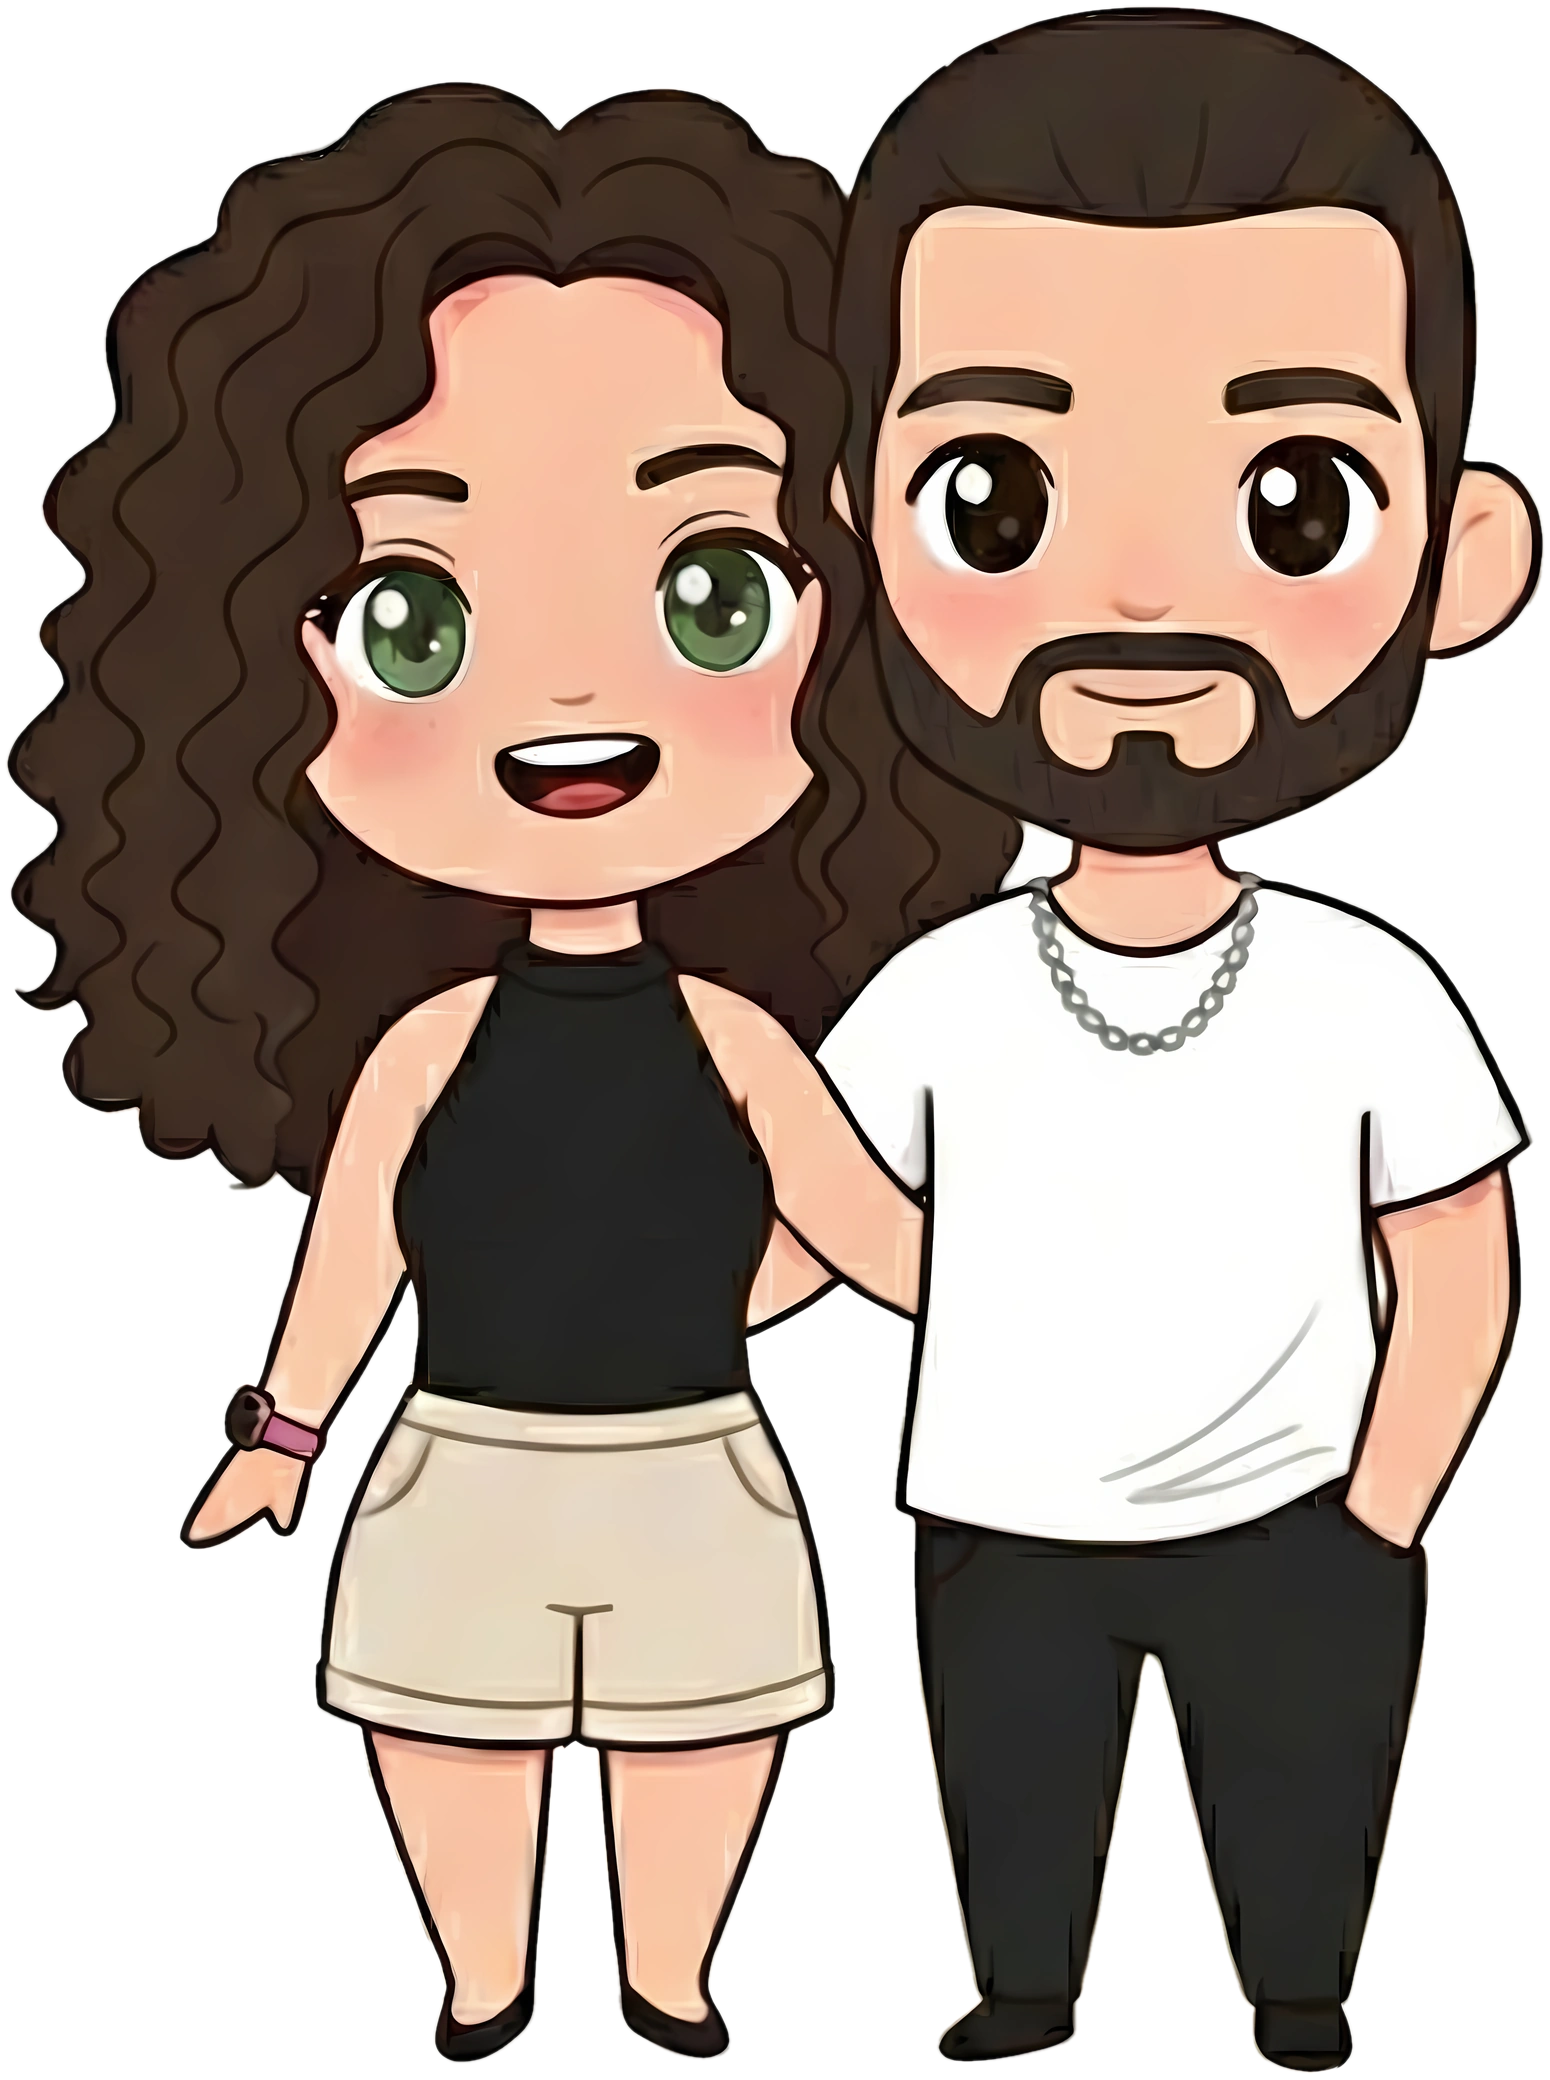
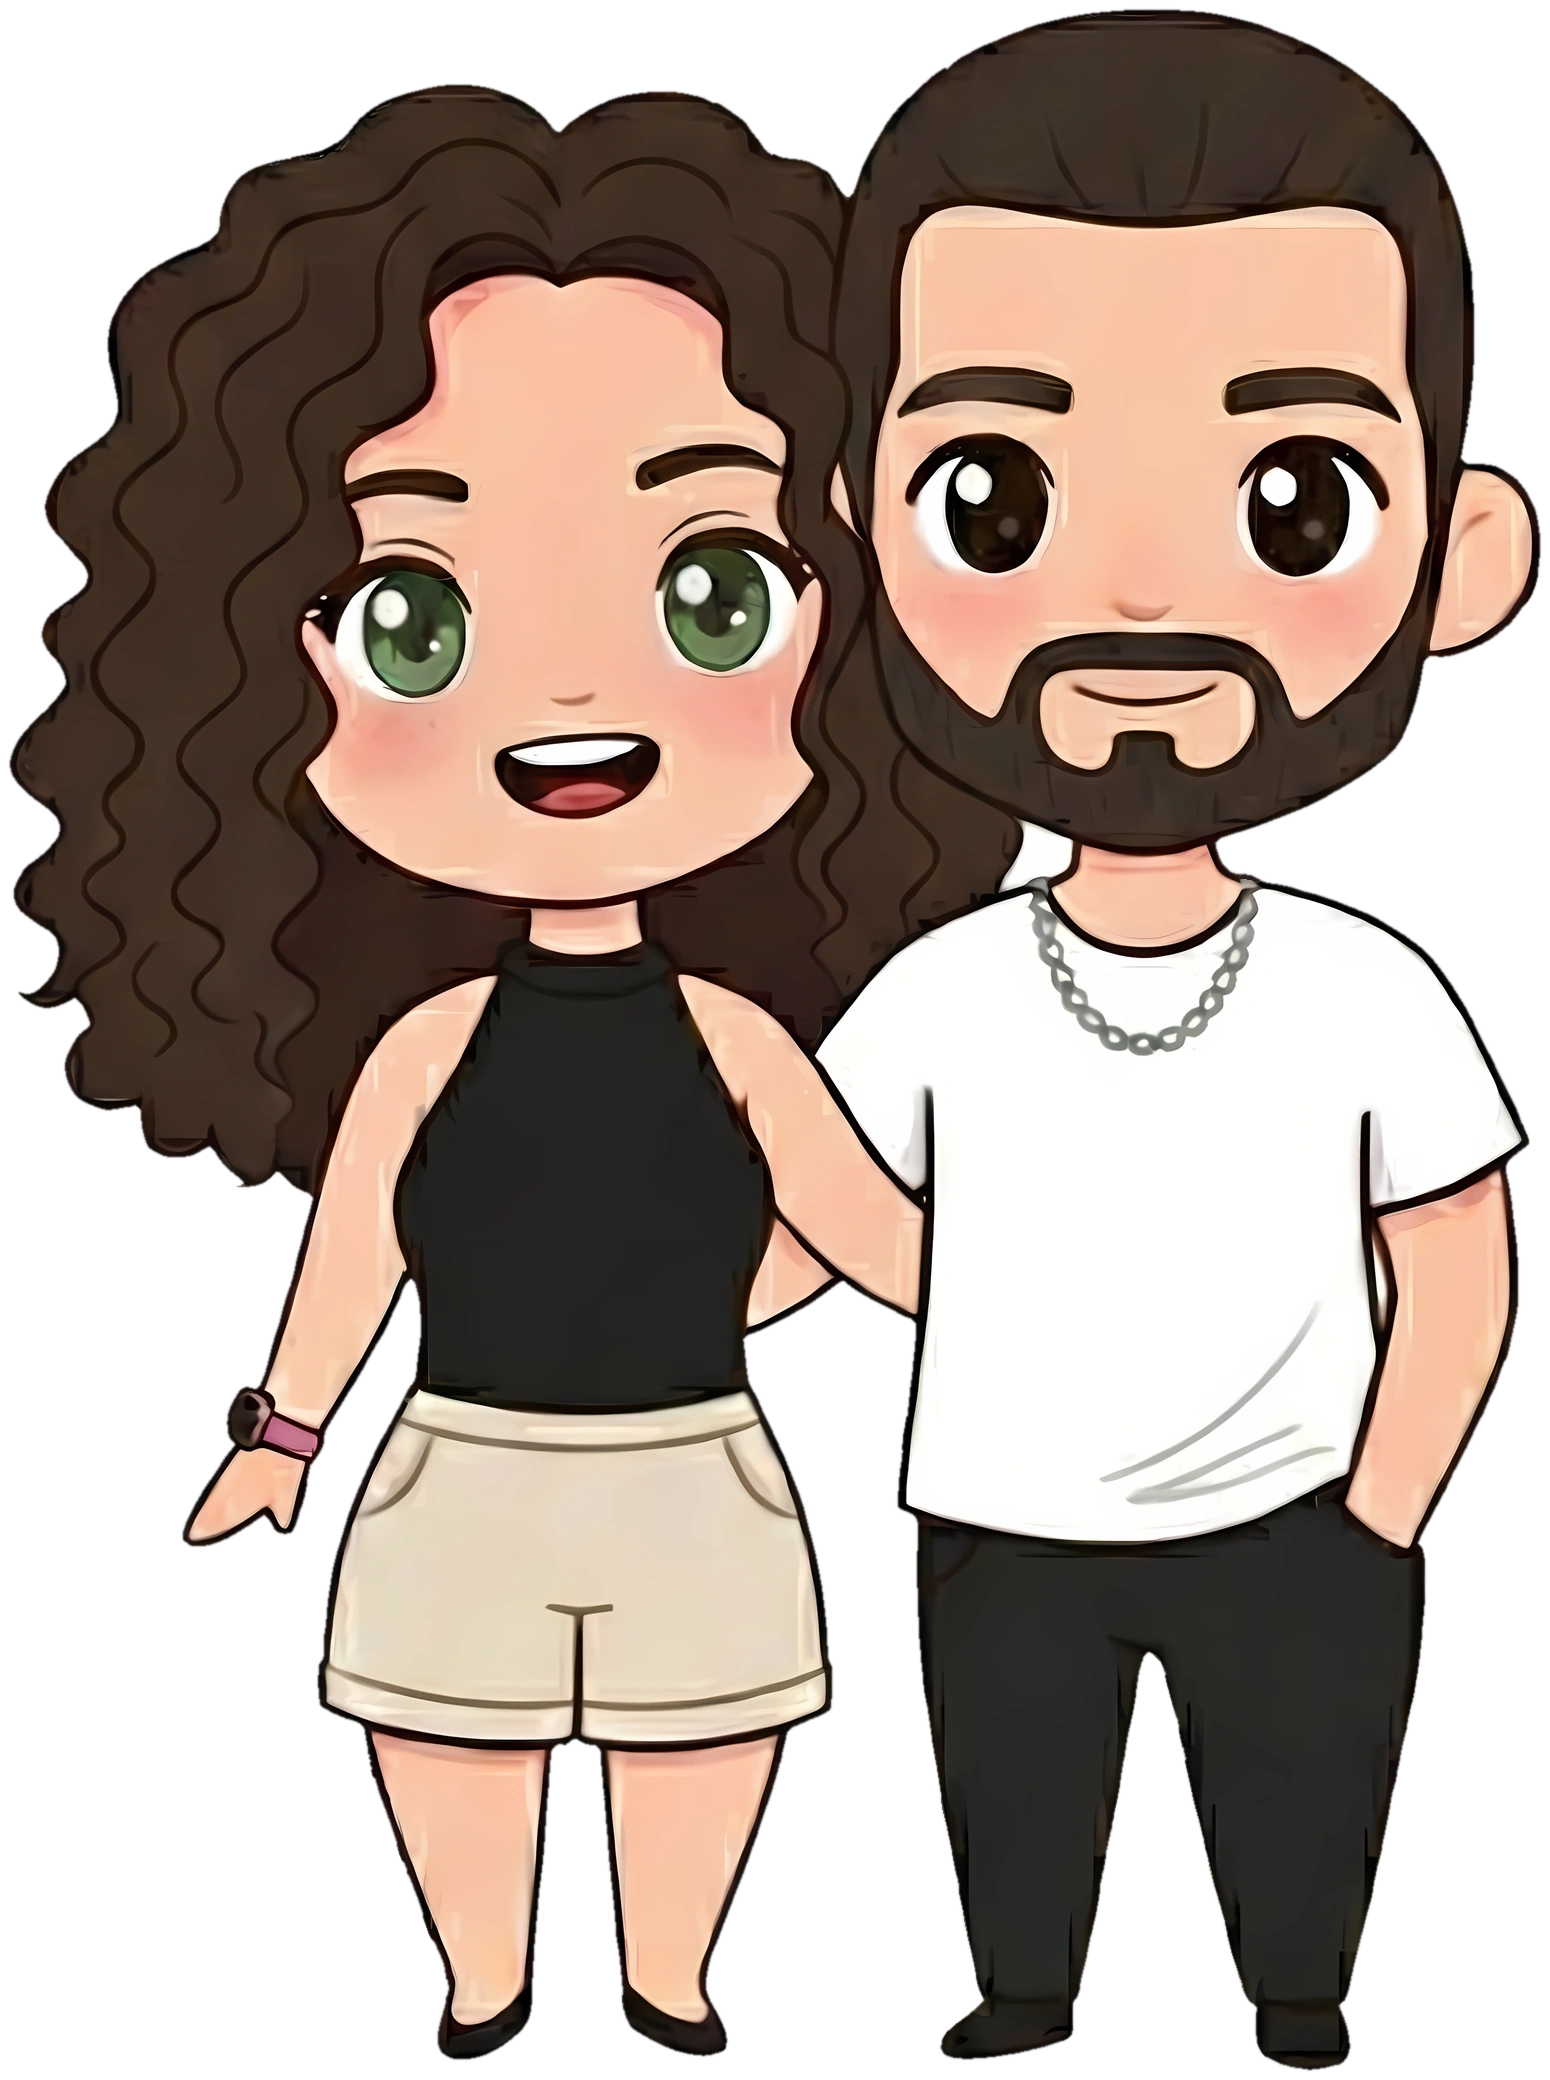
Intro: saca el halo blanco del borde de la imagen
Claude-Session: https://claude.ai/code/session_01LMZK85bQ5JCHh7utCTGme3

diff --git a/index.html b/index.html
@@ -131,7 +131,7 @@
 </head>
 <body>
 <div id="intro" onclick="finIntro()">
-  <div class="esc"><img src="img/intro-juntos.webp?v=3" alt=""><svg class="cor" style="--x:-3px;--y:-283px;--s:46px;--d:1.03s;--r:2deg;--z:3" viewBox="0 0 24 24"><path fill="#e8435a" d="M12 21s-7.5-4.6-9.6-9.2C.9 8.4 3 4.5 6.7 4.5c2.1 0 3.6 1.2 4.4 2.5.8-1.3 2.3-2.5 4.4-2.5 3.7 0 5.8 3.9 4.3 7.3C19.5 16.4 12 21 12 21z"/></svg><svg class="cor" style="--x:64px;--y:-222px;--s:38px;--d:1.04s;--r:9deg;--z:1" viewBox="0 0 24 24"><path fill="#ff6b8a" d="M12 21s-7.5-4.6-9.6-9.2C.9 8.4 3 4.5 6.7 4.5c2.1 0 3.6 1.2 4.4 2.5.8-1.3 2.3-2.5 4.4-2.5 3.7 0 5.8 3.9 4.3 7.3C19.5 16.4 12 21 12 21z"/></svg><svg class="cor" style="--x:97px;--y:-186px;--s:31px;--d:0.84s;--r:4deg;--z:1" viewBox="0 0 24 24"><path fill="#f7a1b5" d="M12 21s-7.5-4.6-9.6-9.2C.9 8.4 3 4.5 6.7 4.5c2.1 0 3.6 1.2 4.4 2.5.8-1.3 2.3-2.5 4.4-2.5 3.7 0 5.8 3.9 4.3 7.3C19.5 16.4 12 21 12 21z"/></svg><svg class="cor" style="--x:183px;--y:-193px;--s:23px;--d:1.11s;--r:-5deg;--z:3" viewBox="0 0 24 24"><path fill="#ff3d6e" d="M12 21s-7.5-4.6-9.6-9.2C.9 8.4 3 4.5 6.7 4.5c2.1 0 3.6 1.2 4.4 2.5.8-1.3 2.3-2.5 4.4-2.5 3.7 0 5.8 3.9 4.3 7.3C19.5 16.4 12 21 12 21z"/></svg><svg class="cor" style="--x:212px;--y:-115px;--s:41px;--d:1.14s;--r:9deg;--z:1" viewBox="0 0 24 24"><path fill="#e8435a" d="M12 21s-7.5-4.6-9.6-9.2C.9 8.4 3 4.5 6.7 4.5c2.1 0 3.6 1.2 4.4 2.5.8-1.3 2.3-2.5 4.4-2.5 3.7 0 5.8 3.9 4.3 7.3C19.5 16.4 12 21 12 21z"/></svg><svg class="cor" style="--x:200px;--y:-106px;--s:23px;--d:0.77s;--r:26deg;--z:1" viewBox="0 0 24 24"><path fill="#ff6b8a" d="M12 21s-7.5-4.6-9.6-9.2C.9 8.4 3 4.5 6.7 4.5c2.1 0 3.6 1.2 4.4 2.5.8-1.3 2.3-2.5 4.4-2.5 3.7 0 5.8 3.9 4.3 7.3C19.5 16.4 12 21 12 21z"/></svg><svg class="cor" style="--x:153px;--y:-28px;--s:36px;--d:0.95s;--r:7deg;--z:3" viewBox="0 0 24 24"><path fill="#f7a1b5" d="M12 21s-7.5-4.6-9.6-9.2C.9 8.4 3 4.5 6.7 4.5c2.1 0 3.6 1.2 4.4 2.5.8-1.3 2.3-2.5 4.4-2.5 3.7 0 5.8 3.9 4.3 7.3C19.5 16.4 12 21 12 21z"/></svg><svg class="cor" style="--x:179px;--y:79px;--s:42px;--d:0.93s;--r:-30deg;--z:1" viewBox="0 0 24 24"><path fill="#ff3d6e" d="M12 21s-7.5-4.6-9.6-9.2C.9 8.4 3 4.5 6.7 4.5c2.1 0 3.6 1.2 4.4 2.5.8-1.3 2.3-2.5 4.4-2.5 3.7 0 5.8 3.9 4.3 7.3C19.5 16.4 12 21 12 21z"/></svg><svg class="cor" style="--x:145px;--y:119px;--s:30px;--d:0.99s;--r:5deg;--z:1" viewBox="0 0 24 24"><path fill="#e8435a" d="M12 21s-7.5-4.6-9.6-9.2C.9 8.4 3 4.5 6.7 4.5c2.1 0 3.6 1.2 4.4 2.5.8-1.3 2.3-2.5 4.4-2.5 3.7 0 5.8 3.9 4.3 7.3C19.5 16.4 12 21 12 21z"/></svg><svg class="cor" style="--x:102px;--y:213px;--s:44px;--d:0.90s;--r:18deg;--z:3" viewBox="0 0 24 24"><path fill="#ff6b8a" d="M12 21s-7.5-4.6-9.6-9.2C.9 8.4 3 4.5 6.7 4.5c2.1 0 3.6 1.2 4.4 2.5.8-1.3 2.3-2.5 4.4-2.5 3.7 0 5.8 3.9 4.3 7.3C19.5 16.4 12 21 12 21z"/></svg><svg class="cor" style="--x:64px;--y:156px;--s:24px;--d:1.09s;--r:-24deg;--z:1" viewBox="0 0 24 24"><path fill="#f7a1b5" d="M12 21s-7.5-4.6-9.6-9.2C.9 8.4 3 4.5 6.7 4.5c2.1 0 3.6 1.2 4.4 2.5.8-1.3 2.3-2.5 4.4-2.5 3.7 0 5.8 3.9 4.3 7.3C19.5 16.4 12 21 12 21z"/></svg><svg class="cor" style="--x:7px;--y:239px;--s:34px;--d:0.79s;--r:-29deg;--z:1" viewBox="0 0 24 24"><path fill="#ff3d6e" d="M12 21s-7.5-4.6-9.6-9.2C.9 8.4 3 4.5 6.7 4.5c2.1 0 3.6 1.2 4.4 2.5.8-1.3 2.3-2.5 4.4-2.5 3.7 0 5.8 3.9 4.3 7.3C19.5 16.4 12 21 12 21z"/></svg><svg class="cor" style="--x:-56px;--y:120px;--s:28px;--d:1.31s;--r:-27deg;--z:3" viewBox="0 0 24 24"><path fill="#e8435a" d="M12 21s-7.5-4.6-9.6-9.2C.9 8.4 3 4.5 6.7 4.5c2.1 0 3.6 1.2 4.4 2.5.8-1.3 2.3-2.5 4.4-2.5 3.7 0 5.8 3.9 4.3 7.3C19.5 16.4 12 21 12 21z"/></svg><svg class="cor" style="--x:-138px;--y:211px;--s:34px;--d:1.00s;--r:6deg;--z:1" viewBox="0 0 24 24"><path fill="#ff6b8a" d="M12 21s-7.5-4.6-9.6-9.2C.9 8.4 3 4.5 6.7 4.5c2.1 0 3.6 1.2 4.4 2.5.8-1.3 2.3-2.5 4.4-2.5 3.7 0 5.8 3.9 4.3 7.3C19.5 16.4 12 21 12 21z"/></svg><svg class="cor" style="--x:-184px;--y:130px;--s:30px;--d:0.95s;--r:-11deg;--z:1" viewBox="0 0 24 24"><path fill="#f7a1b5" d="M12 21s-7.5-4.6-9.6-9.2C.9 8.4 3 4.5 6.7 4.5c2.1 0 3.6 1.2 4.4 2.5.8-1.3 2.3-2.5 4.4-2.5 3.7 0 5.8 3.9 4.3 7.3C19.5 16.4 12 21 12 21z"/></svg><svg class="cor" style="--x:-228px;--y:95px;--s:46px;--d:1.30s;--r:-22deg;--z:3" viewBox="0 0 24 24"><path fill="#ff3d6e" d="M12 21s-7.5-4.6-9.6-9.2C.9 8.4 3 4.5 6.7 4.5c2.1 0 3.6 1.2 4.4 2.5.8-1.3 2.3-2.5 4.4-2.5 3.7 0 5.8 3.9 4.3 7.3C19.5 16.4 12 21 12 21z"/></svg><svg class="cor" style="--x:-157px;--y:-1px;--s:23px;--d:1.03s;--r:1deg;--z:1" viewBox="0 0 24 24"><path fill="#e8435a" d="M12 21s-7.5-4.6-9.6-9.2C.9 8.4 3 4.5 6.7 4.5c2.1 0 3.6 1.2 4.4 2.5.8-1.3 2.3-2.5 4.4-2.5 3.7 0 5.8 3.9 4.3 7.3C19.5 16.4 12 21 12 21z"/></svg><svg class="cor" style="--x:-211px;--y:-53px;--s:36px;--d:1.06s;--r:16deg;--z:1" viewBox="0 0 24 24"><path fill="#ff6b8a" d="M12 21s-7.5-4.6-9.6-9.2C.9 8.4 3 4.5 6.7 4.5c2.1 0 3.6 1.2 4.4 2.5.8-1.3 2.3-2.5 4.4-2.5 3.7 0 5.8 3.9 4.3 7.3C19.5 16.4 12 21 12 21z"/></svg><svg class="cor" style="--x:-172px;--y:-149px;--s:34px;--d:0.82s;--r:-4deg;--z:3" viewBox="0 0 24 24"><path fill="#f7a1b5" d="M12 21s-7.5-4.6-9.6-9.2C.9 8.4 3 4.5 6.7 4.5c2.1 0 3.6 1.2 4.4 2.5.8-1.3 2.3-2.5 4.4-2.5 3.7 0 5.8 3.9 4.3 7.3C19.5 16.4 12 21 12 21z"/></svg><svg class="cor" style="--x:-99px;--y:-170px;--s:40px;--d:0.93s;--r:26deg;--z:1" viewBox="0 0 24 24"><path fill="#ff3d6e" d="M12 21s-7.5-4.6-9.6-9.2C.9 8.4 3 4.5 6.7 4.5c2.1 0 3.6 1.2 4.4 2.5.8-1.3 2.3-2.5 4.4-2.5 3.7 0 5.8 3.9 4.3 7.3C19.5 16.4 12 21 12 21z"/></svg><svg class="cor" style="--x:-111px;--y:-189px;--s:41px;--d:1.14s;--r:-24deg;--z:1" viewBox="0 0 24 24"><path fill="#e8435a" d="M12 21s-7.5-4.6-9.6-9.2C.9 8.4 3 4.5 6.7 4.5c2.1 0 3.6 1.2 4.4 2.5.8-1.3 2.3-2.5 4.4-2.5 3.7 0 5.8 3.9 4.3 7.3C19.5 16.4 12 21 12 21z"/></svg><svg class="cor" style="--x:-67px;--y:-215px;--s:36px;--d:0.90s;--r:19deg;--z:3" viewBox="0 0 24 24"><path fill="#ff6b8a" d="M12 21s-7.5-4.6-9.6-9.2C.9 8.4 3 4.5 6.7 4.5c2.1 0 3.6 1.2 4.4 2.5.8-1.3 2.3-2.5 4.4-2.5 3.7 0 5.8 3.9 4.3 7.3C19.5 16.4 12 21 12 21z"/></svg></div>
+  <div class="esc"><img src="img/intro-juntos.webp?v=4" alt=""><svg class="cor" style="--x:-3px;--y:-283px;--s:46px;--d:1.03s;--r:2deg;--z:3" viewBox="0 0 24 24"><path fill="#e8435a" d="M12 21s-7.5-4.6-9.6-9.2C.9 8.4 3 4.5 6.7 4.5c2.1 0 3.6 1.2 4.4 2.5.8-1.3 2.3-2.5 4.4-2.5 3.7 0 5.8 3.9 4.3 7.3C19.5 16.4 12 21 12 21z"/></svg><svg class="cor" style="--x:64px;--y:-222px;--s:38px;--d:1.04s;--r:9deg;--z:1" viewBox="0 0 24 24"><path fill="#ff6b8a" d="M12 21s-7.5-4.6-9.6-9.2C.9 8.4 3 4.5 6.7 4.5c2.1 0 3.6 1.2 4.4 2.5.8-1.3 2.3-2.5 4.4-2.5 3.7 0 5.8 3.9 4.3 7.3C19.5 16.4 12 21 12 21z"/></svg><svg class="cor" style="--x:97px;--y:-186px;--s:31px;--d:0.84s;--r:4deg;--z:1" viewBox="0 0 24 24"><path fill="#f7a1b5" d="M12 21s-7.5-4.6-9.6-9.2C.9 8.4 3 4.5 6.7 4.5c2.1 0 3.6 1.2 4.4 2.5.8-1.3 2.3-2.5 4.4-2.5 3.7 0 5.8 3.9 4.3 7.3C19.5 16.4 12 21 12 21z"/></svg><svg class="cor" style="--x:183px;--y:-193px;--s:23px;--d:1.11s;--r:-5deg;--z:3" viewBox="0 0 24 24"><path fill="#ff3d6e" d="M12 21s-7.5-4.6-9.6-9.2C.9 8.4 3 4.5 6.7 4.5c2.1 0 3.6 1.2 4.4 2.5.8-1.3 2.3-2.5 4.4-2.5 3.7 0 5.8 3.9 4.3 7.3C19.5 16.4 12 21 12 21z"/></svg><svg class="cor" style="--x:212px;--y:-115px;--s:41px;--d:1.14s;--r:9deg;--z:1" viewBox="0 0 24 24"><path fill="#e8435a" d="M12 21s-7.5-4.6-9.6-9.2C.9 8.4 3 4.5 6.7 4.5c2.1 0 3.6 1.2 4.4 2.5.8-1.3 2.3-2.5 4.4-2.5 3.7 0 5.8 3.9 4.3 7.3C19.5 16.4 12 21 12 21z"/></svg><svg class="cor" style="--x:200px;--y:-106px;--s:23px;--d:0.77s;--r:26deg;--z:1" viewBox="0 0 24 24"><path fill="#ff6b8a" d="M12 21s-7.5-4.6-9.6-9.2C.9 8.4 3 4.5 6.7 4.5c2.1 0 3.6 1.2 4.4 2.5.8-1.3 2.3-2.5 4.4-2.5 3.7 0 5.8 3.9 4.3 7.3C19.5 16.4 12 21 12 21z"/></svg><svg class="cor" style="--x:153px;--y:-28px;--s:36px;--d:0.95s;--r:7deg;--z:3" viewBox="0 0 24 24"><path fill="#f7a1b5" d="M12 21s-7.5-4.6-9.6-9.2C.9 8.4 3 4.5 6.7 4.5c2.1 0 3.6 1.2 4.4 2.5.8-1.3 2.3-2.5 4.4-2.5 3.7 0 5.8 3.9 4.3 7.3C19.5 16.4 12 21 12 21z"/></svg><svg class="cor" style="--x:179px;--y:79px;--s:42px;--d:0.93s;--r:-30deg;--z:1" viewBox="0 0 24 24"><path fill="#ff3d6e" d="M12 21s-7.5-4.6-9.6-9.2C.9 8.4 3 4.5 6.7 4.5c2.1 0 3.6 1.2 4.4 2.5.8-1.3 2.3-2.5 4.4-2.5 3.7 0 5.8 3.9 4.3 7.3C19.5 16.4 12 21 12 21z"/></svg><svg class="cor" style="--x:145px;--y:119px;--s:30px;--d:0.99s;--r:5deg;--z:1" viewBox="0 0 24 24"><path fill="#e8435a" d="M12 21s-7.5-4.6-9.6-9.2C.9 8.4 3 4.5 6.7 4.5c2.1 0 3.6 1.2 4.4 2.5.8-1.3 2.3-2.5 4.4-2.5 3.7 0 5.8 3.9 4.3 7.3C19.5 16.4 12 21 12 21z"/></svg><svg class="cor" style="--x:102px;--y:213px;--s:44px;--d:0.90s;--r:18deg;--z:3" viewBox="0 0 24 24"><path fill="#ff6b8a" d="M12 21s-7.5-4.6-9.6-9.2C.9 8.4 3 4.5 6.7 4.5c2.1 0 3.6 1.2 4.4 2.5.8-1.3 2.3-2.5 4.4-2.5 3.7 0 5.8 3.9 4.3 7.3C19.5 16.4 12 21 12 21z"/></svg><svg class="cor" style="--x:64px;--y:156px;--s:24px;--d:1.09s;--r:-24deg;--z:1" viewBox="0 0 24 24"><path fill="#f7a1b5" d="M12 21s-7.5-4.6-9.6-9.2C.9 8.4 3 4.5 6.7 4.5c2.1 0 3.6 1.2 4.4 2.5.8-1.3 2.3-2.5 4.4-2.5 3.7 0 5.8 3.9 4.3 7.3C19.5 16.4 12 21 12 21z"/></svg><svg class="cor" style="--x:7px;--y:239px;--s:34px;--d:0.79s;--r:-29deg;--z:1" viewBox="0 0 24 24"><path fill="#ff3d6e" d="M12 21s-7.5-4.6-9.6-9.2C.9 8.4 3 4.5 6.7 4.5c2.1 0 3.6 1.2 4.4 2.5.8-1.3 2.3-2.5 4.4-2.5 3.7 0 5.8 3.9 4.3 7.3C19.5 16.4 12 21 12 21z"/></svg><svg class="cor" style="--x:-56px;--y:120px;--s:28px;--d:1.31s;--r:-27deg;--z:3" viewBox="0 0 24 24"><path fill="#e8435a" d="M12 21s-7.5-4.6-9.6-9.2C.9 8.4 3 4.5 6.7 4.5c2.1 0 3.6 1.2 4.4 2.5.8-1.3 2.3-2.5 4.4-2.5 3.7 0 5.8 3.9 4.3 7.3C19.5 16.4 12 21 12 21z"/></svg><svg class="cor" style="--x:-138px;--y:211px;--s:34px;--d:1.00s;--r:6deg;--z:1" viewBox="0 0 24 24"><path fill="#ff6b8a" d="M12 21s-7.5-4.6-9.6-9.2C.9 8.4 3 4.5 6.7 4.5c2.1 0 3.6 1.2 4.4 2.5.8-1.3 2.3-2.5 4.4-2.5 3.7 0 5.8 3.9 4.3 7.3C19.5 16.4 12 21 12 21z"/></svg><svg class="cor" style="--x:-184px;--y:130px;--s:30px;--d:0.95s;--r:-11deg;--z:1" viewBox="0 0 24 24"><path fill="#f7a1b5" d="M12 21s-7.5-4.6-9.6-9.2C.9 8.4 3 4.5 6.7 4.5c2.1 0 3.6 1.2 4.4 2.5.8-1.3 2.3-2.5 4.4-2.5 3.7 0 5.8 3.9 4.3 7.3C19.5 16.4 12 21 12 21z"/></svg><svg class="cor" style="--x:-228px;--y:95px;--s:46px;--d:1.30s;--r:-22deg;--z:3" viewBox="0 0 24 24"><path fill="#ff3d6e" d="M12 21s-7.5-4.6-9.6-9.2C.9 8.4 3 4.5 6.7 4.5c2.1 0 3.6 1.2 4.4 2.5.8-1.3 2.3-2.5 4.4-2.5 3.7 0 5.8 3.9 4.3 7.3C19.5 16.4 12 21 12 21z"/></svg><svg class="cor" style="--x:-157px;--y:-1px;--s:23px;--d:1.03s;--r:1deg;--z:1" viewBox="0 0 24 24"><path fill="#e8435a" d="M12 21s-7.5-4.6-9.6-9.2C.9 8.4 3 4.5 6.7 4.5c2.1 0 3.6 1.2 4.4 2.5.8-1.3 2.3-2.5 4.4-2.5 3.7 0 5.8 3.9 4.3 7.3C19.5 16.4 12 21 12 21z"/></svg><svg class="cor" style="--x:-211px;--y:-53px;--s:36px;--d:1.06s;--r:16deg;--z:1" viewBox="0 0 24 24"><path fill="#ff6b8a" d="M12 21s-7.5-4.6-9.6-9.2C.9 8.4 3 4.5 6.7 4.5c2.1 0 3.6 1.2 4.4 2.5.8-1.3 2.3-2.5 4.4-2.5 3.7 0 5.8 3.9 4.3 7.3C19.5 16.4 12 21 12 21z"/></svg><svg class="cor" style="--x:-172px;--y:-149px;--s:34px;--d:0.82s;--r:-4deg;--z:3" viewBox="0 0 24 24"><path fill="#f7a1b5" d="M12 21s-7.5-4.6-9.6-9.2C.9 8.4 3 4.5 6.7 4.5c2.1 0 3.6 1.2 4.4 2.5.8-1.3 2.3-2.5 4.4-2.5 3.7 0 5.8 3.9 4.3 7.3C19.5 16.4 12 21 12 21z"/></svg><svg class="cor" style="--x:-99px;--y:-170px;--s:40px;--d:0.93s;--r:26deg;--z:1" viewBox="0 0 24 24"><path fill="#ff3d6e" d="M12 21s-7.5-4.6-9.6-9.2C.9 8.4 3 4.5 6.7 4.5c2.1 0 3.6 1.2 4.4 2.5.8-1.3 2.3-2.5 4.4-2.5 3.7 0 5.8 3.9 4.3 7.3C19.5 16.4 12 21 12 21z"/></svg><svg class="cor" style="--x:-111px;--y:-189px;--s:41px;--d:1.14s;--r:-24deg;--z:1" viewBox="0 0 24 24"><path fill="#e8435a" d="M12 21s-7.5-4.6-9.6-9.2C.9 8.4 3 4.5 6.7 4.5c2.1 0 3.6 1.2 4.4 2.5.8-1.3 2.3-2.5 4.4-2.5 3.7 0 5.8 3.9 4.3 7.3C19.5 16.4 12 21 12 21z"/></svg><svg class="cor" style="--x:-67px;--y:-215px;--s:36px;--d:0.90s;--r:19deg;--z:3" viewBox="0 0 24 24"><path fill="#ff6b8a" d="M12 21s-7.5-4.6-9.6-9.2C.9 8.4 3 4.5 6.7 4.5c2.1 0 3.6 1.2 4.4 2.5.8-1.3 2.3-2.5 4.4-2.5 3.7 0 5.8 3.9 4.3 7.3C19.5 16.4 12 21 12 21z"/></svg></div>
   <div class="tit"><span style="animation-delay:1.70s">J</span><span style="animation-delay:1.82s">u</span><span style="animation-delay:1.94s">n</span><span style="animation-delay:2.06s">t</span><span class="os" style="animation-delay:2.18s">O</span><span class="os" style="animation-delay:2.30s">S</span></div>
   <div class="sub">El Arte de Construir</div>
   <span class="saltar">Tocá para saltar</span>
@@ -143,7 +143,7 @@
   try{sessionStorage.setItem('intro_ok','1')}catch(e){}
   window.finIntro=function(){if(!el.isConnected)return;el.classList.add('fin');setTimeout(()=>el.remove(),500);};
   const anims=()=>el.getAnimations({subtree:true});anims().forEach(a=>a.pause());
-  const img=new Image();img.onload=img.onerror=()=>{anims().forEach(a=>a.play());setTimeout(finIntro,4600);};img.src='img/intro-juntos.webp?v=3';
+  const img=new Image();img.onload=img.onerror=()=>{anims().forEach(a=>a.play());setTimeout(finIntro,4600);};img.src='img/intro-juntos.webp?v=4';
   setTimeout(finIntro,8000);
 })();
 </script>
